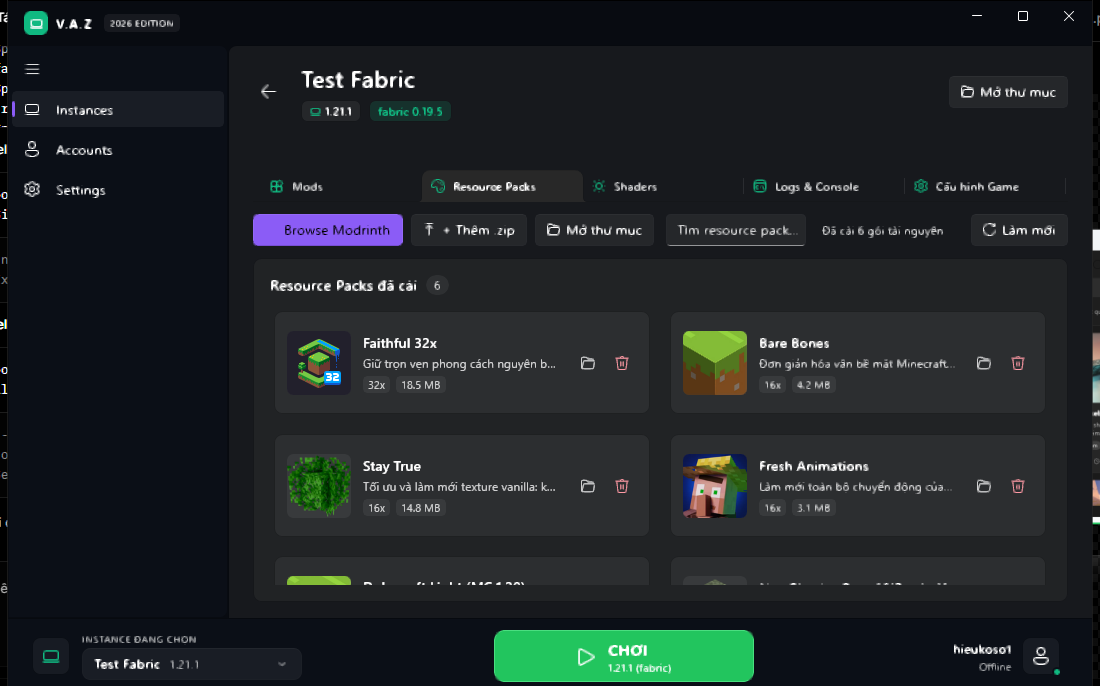
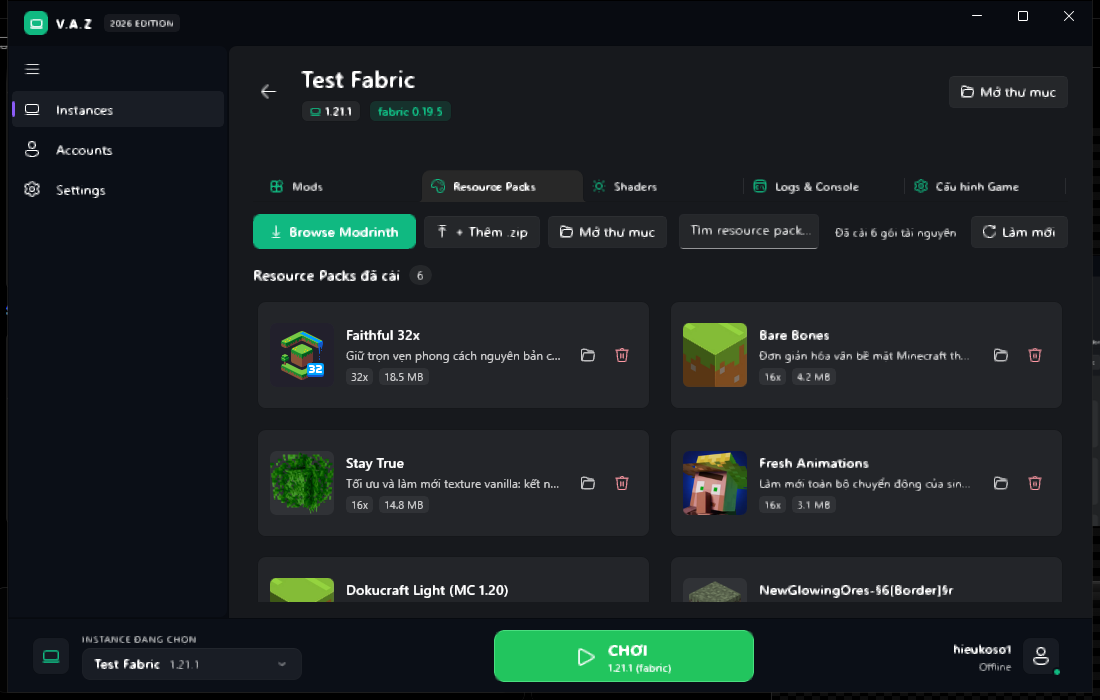
fix(winui): unify accent button colors and page backgrounds across tabs

diff --git a/src/Vaz.WinUI/Views/InstanceDetailPage.xaml b/src/Vaz.WinUI/Views/InstanceDetailPage.xaml
@@ -862,10 +862,10 @@
                                 <!-- Toolbar -->
                                 <Grid Grid.Row="0" ColumnDefinitions="Auto,Auto,*,Auto">
                                     <StackPanel Grid.Column="0" Orientation="Horizontal" Spacing="8">
-                                        <Button x:Name="BrowseModrinthResourcePacksButton" Click="BrowseModrinthResourcePacks_Click" Style="{StaticResource AccentButtonStyle}">
+                                        <Button x:Name="BrowseModrinthResourcePacksButton" Click="BrowseModrinthResourcePacks_Click" Style="{StaticResource VazAccentButtonStyle}">
                                             <StackPanel Orientation="Horizontal" Spacing="6">
-                                                <FontIcon Glyph="&#xE896;" FontSize="13" Foreground="{ThemeResource AccentFillColorDefaultBrush}" />
-                                                <TextBlock Text="Browse Modrinth" />
+                                                <FontIcon Glyph="&#xE896;" FontSize="13" Foreground="White" />
+                                                <TextBlock Text="Browse Modrinth" Foreground="White" />
                                             </StackPanel>
                                         </Button>
                                         <Button x:Name="ImportResourcePackButton" Click="ImportResourcePack_Click">
@@ -907,21 +907,15 @@
                                 </Grid>
 
                                 <!-- Library View: Single responsive grid of installed Resource Packs -->
-                                <Border Grid.Row="1"
-                                        Background="{ThemeResource LayerFillColorDefaultBrush}"
-                                        BorderBrush="{ThemeResource CardStrokeColorDefaultBrush}"
-                                        BorderThickness="1"
-                                        CornerRadius="8"
-                                        Padding="16">
-                                    <Grid RowDefinitions="Auto,*">
-                                        <Grid Grid.Row="0" Margin="0,0,0,12" ColumnDefinitions="*,Auto">
-                                            <StackPanel Grid.Column="0" Orientation="Horizontal" Spacing="8" VerticalAlignment="Center">
-                                                <TextBlock Text="Resource Packs đã cài" FontWeight="SemiBold" FontSize="15" Foreground="{ThemeResource TextFillColorPrimaryBrush}" />
-                                                <Border Background="{ThemeResource SubtleFillColorSecondaryBrush}" CornerRadius="10" Padding="8,2" VerticalAlignment="Center">
-                                                    <TextBlock Text="{x:Bind ViewModel.ResourcePacksCountText, Mode=OneWay}" FontSize="12" Foreground="{ThemeResource TextFillColorSecondaryBrush}" />
-                                                </Border>
-                                            </StackPanel>
-                                        </Grid>
+                                <Grid Grid.Row="1" RowDefinitions="Auto,*">
+                                    <Grid Grid.Row="0" Margin="0,4,0,12" ColumnDefinitions="*,Auto">
+                                        <StackPanel Grid.Column="0" Orientation="Horizontal" Spacing="8" VerticalAlignment="Center">
+                                            <TextBlock Text="Resource Packs đã cài" FontWeight="SemiBold" FontSize="15" Foreground="{ThemeResource TextFillColorPrimaryBrush}" />
+                                            <Border Background="{ThemeResource SubtleFillColorSecondaryBrush}" CornerRadius="10" Padding="8,2" VerticalAlignment="Center">
+                                                <TextBlock Text="{x:Bind ViewModel.ResourcePacksCountText, Mode=OneWay}" FontSize="12" Foreground="{ThemeResource TextFillColorSecondaryBrush}" />
+                                            </Border>
+                                        </StackPanel>
+                                    </Grid>
 
                                         <ScrollViewer Grid.Row="1" VerticalScrollBarVisibility="Auto" HorizontalScrollBarVisibility="Disabled">
                                             <ItemsRepeater x:Name="ResourcePacksRepeater"
@@ -1030,7 +1024,6 @@
                                                        HorizontalAlignment="Center" />
                                         </StackPanel>
                                     </Grid>
-                                </Border>
                             </Grid>
 
                         <!-- Resource Pack Inspector Drawer Overlay -->
@@ -1145,10 +1138,10 @@
                             <!-- Toolbar -->
                             <Grid Grid.Row="1" ColumnDefinitions="Auto,*,Auto">
                                 <StackPanel Grid.Column="0" Orientation="Horizontal" Spacing="8">
-                                    <Button x:Name="BrowseModrinthShadersButton" Click="BrowseModrinthShaders_Click" Style="{StaticResource AccentButtonStyle}">
+                                    <Button x:Name="BrowseModrinthShadersButton" Click="BrowseModrinthShaders_Click" Style="{StaticResource VazAccentButtonStyle}">
                                         <StackPanel Orientation="Horizontal" Spacing="6">
-                                            <FontIcon Glyph="&#xE896;" FontSize="13" Foreground="{ThemeResource AccentFillColorDefaultBrush}" />
-                                            <TextBlock Text="Browse Modrinth" />
+                                            <FontIcon Glyph="&#xE896;" FontSize="13" Foreground="White" />
+                                            <TextBlock Text="Browse Modrinth" Foreground="White" />
                                         </StackPanel>
                                     </Button>
                                     <Button x:Name="ImportShaderButton" Click="ImportShader_Click">
@@ -1452,7 +1445,7 @@
                             <StackPanel Grid.Row="0" Orientation="Horizontal" Spacing="8">
                                 <Button
                                     Command="{x:Bind ViewModel.SaveGameOptionsCommand}"
-                                    Style="{StaticResource AccentButtonStyle}">
+                                    Style="{StaticResource VazAccentButtonStyle}">
                                     <StackPanel Orientation="Horizontal" Spacing="6">
                                         <SymbolIcon Symbol="Save" />
                                         <TextBlock Text="Lưu cấu hình" />

diff --git a/src/Vaz.WinUI/Views/ModBrowserView.xaml b/src/Vaz.WinUI/Views/ModBrowserView.xaml
@@ -409,7 +409,7 @@
                             Padding="14,6" />
                         <Button
                             x:Name="ConfirmDependencyPromptButton"
-                            Style="{StaticResource AccentButtonStyle}"
+                            Style="{StaticResource VazAccentButtonStyle}"
                             Content="Cài kèm dependencies"
                             Click="ConfirmDependencyPrompt_Click"
                             Padding="14,6" />

diff --git a/src/Vaz.WinUI/Helpers/UiAnimationHelper.cs b/src/Vaz.WinUI/Helpers/UiAnimationHelper.cs
@@ -85,6 +85,24 @@ public static class UiAnimationHelper
     {
         if (card == null || card.XamlRoot == null) return;
 
+        if (card is Border border)
+        {
+            if (isHovered)
+            {
+                if (Application.Current?.Resources.TryGetValue("VazAccentBrush", out var accentObj) == true && accentObj is Brush accentBrush)
+                {
+                    border.BorderBrush = accentBrush;
+                }
+            }
+            else
+            {
+                if (Application.Current?.Resources.TryGetValue("CardStrokeColorDefaultBrush", out var defaultObj) == true && defaultObj is Brush defaultBrush)
+                {
+                    border.BorderBrush = defaultBrush;
+                }
+            }
+        }
+
         card.RenderTransformOrigin = new Point(0.5, 0.5);
         var scale = EnsureScaleTransform(card);
 
